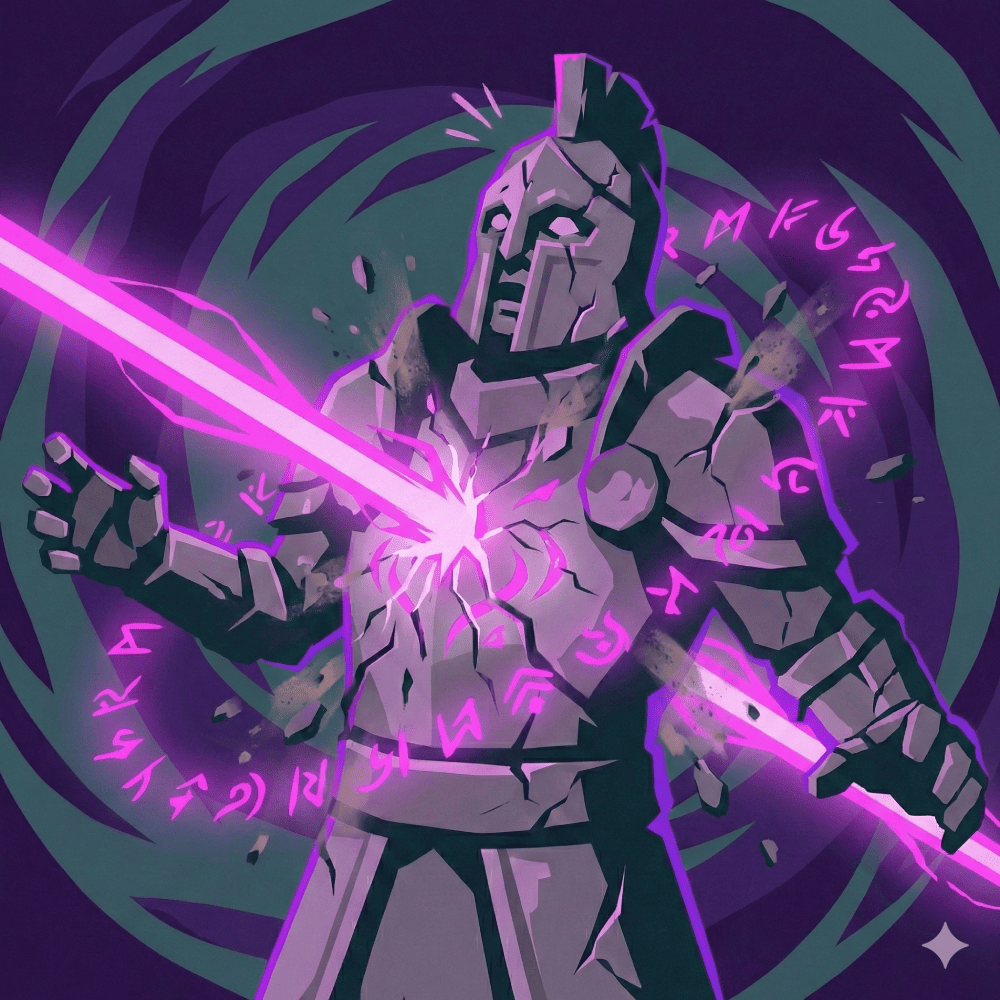
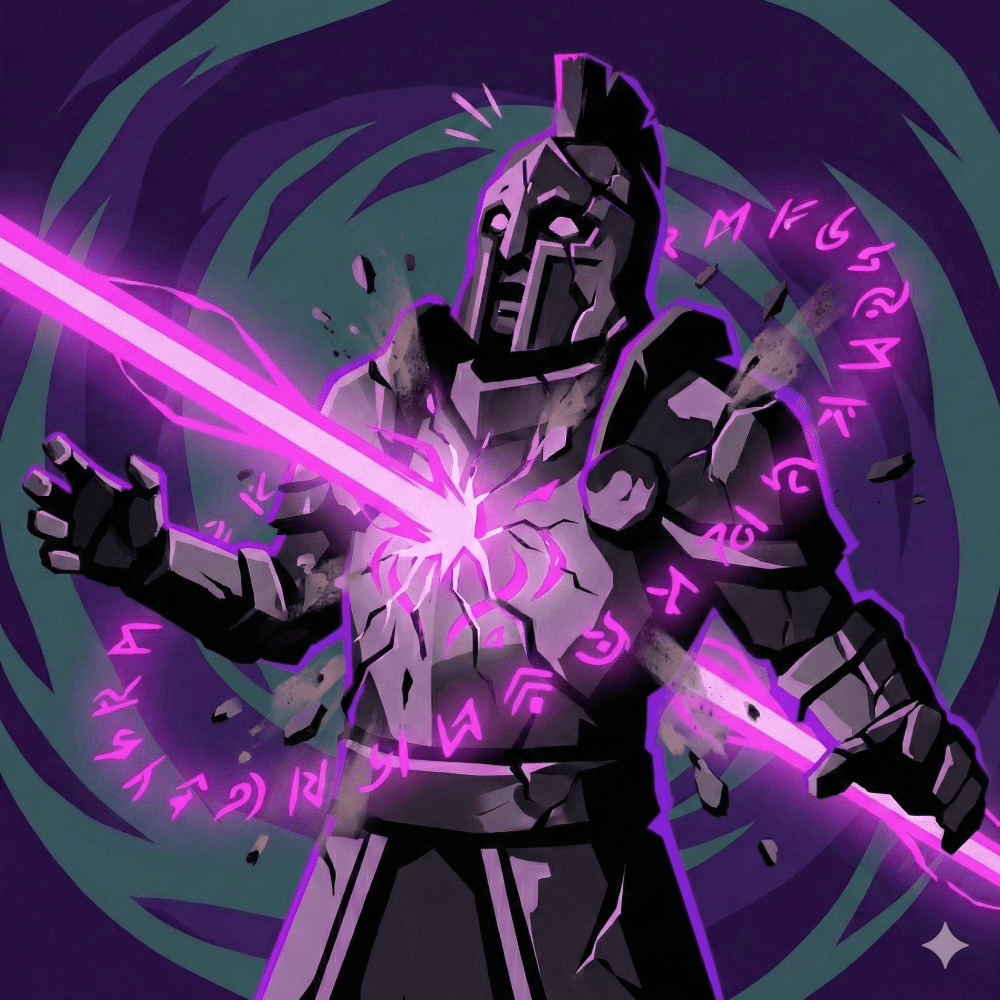
mad prophet full arts

diff --git a/src/data/index.ts b/src/data/index.ts
@@ -4,9 +4,13 @@ import cleaveCardImage from '../assets/images/heroes/crusader/cards/cleave-card.
 import bloodOathCardImage from '../assets/images/heroes/crusader/cards/bloodoath-card.png';
 import purgeCardImage from '../assets/images/heroes/crusader/cards/purge-card.png';
 import arrowShotCardImage from '../assets/images/heroes/loneranger/cards/arrowshot-card.png';
-import eyeFromAboveCardImage from '../assets/images/heroes/loneranger/cards/eyefromabove-card.png';
+import quetzalSightCardImage from '../assets/images/heroes/loneranger/cards/quetzalsight-card.png';
 import pietrifyingCurseCardImage from '../assets/images/heroes/loneranger/cards/pietrifyingcurse-card.png';
 import huntersMarkIcon from '../assets/images/heroes/loneranger/skills/huntersmark-skill.png';
+import foreseeCardImage from '../assets/images/heroes/madprophet/cards/foresee-card.png';
+import omenCardImage from '../assets/images/heroes/madprophet/cards/omen-card.png';
+import epiphanyCardImage from '../assets/images/heroes/madprophet/cards/epiphany-card.png';
+import theProphecyIcon from '../assets/images/heroes/madprophet/skills/thepropecy-skill.png';
 
 export const ZONES = ['F', 'M', 'R'];
 
@@ -27,7 +31,7 @@ export const KEYWORDS: Record<string, string> = {
   'Prevent': 'Reduces incoming damage by a flat amount.',
   'Stalwart': 'Gain 1 Gray Heart each round.',
   'Camouflage': 'Immune this turn.',
-  'Map Vision': 'See adjacent nodes.',
+  'The Prophecy': 'Reveal the next nodes type on world map.',
   'Scry All': 'Reveal all enemy cards.',
   'Range': 'Can target enemies X lanes away.',
   'Ranged': 'Can target enemies X lanes away.',
@@ -36,9 +40,10 @@ export const KEYWORDS: Record<string, string> = {
 };
 
 export const POTIONS_DB: Card[] = [
-  { id: 'pot_heal', type: 'BASIC', value: 3, name: 'Healing Potion', desc: 'Heal 3 HP', isPotion: true, color: 'bg-emerald-950', border: 'border-emerald-700' },
-  { id: 'pot_inv', type: 'BASIC', value: 0, name: 'Invis. Potion', desc: 'Immune 1 round', isPotion: true, color: 'bg-indigo-950', border: 'border-indigo-700' },
-  { id: 'pot_str', type: 'BASIC', value: 2, name: 'Str. Potion', desc: '+2 DMG next', isPotion: true, color: 'bg-amber-950', border: 'border-amber-700' }
+  { id: 'pot_heal', type: 'CRAFTED', actionType: 'SKILL', value: 2, name: 'Healing Potion', desc: 'Heal 2 hearts.', isPotion: true, speed: 'FAST', range: 1, color: 'bg-emerald-950', border: 'border-emerald-700' },
+  { id: 'pot_inv', type: 'CRAFTED', actionType: 'SKILL', value: 0, name: 'Invisible Potion', desc: 'Immune this turn.', isPotion: true, speed: 'FAST', range: 1, color: 'bg-indigo-950', border: 'border-indigo-700' },
+  { id: 'pot_aug', type: 'CRAFTED', actionType: 'SKILL', value: 2, name: 'Augmented Potion', desc: 'Gain Anger 2.', isPotion: true, speed: 'FAST', range: 1, color: 'bg-amber-950', border: 'border-amber-700' },
+  { id: 'pot_exp', type: 'CRAFTED', actionType: 'ATTACK', value: 2, name: 'Explosive Potion', desc: 'Deal 2 to this lane and adjacent lanes.', isPotion: true, speed: 'FAST', range: 2, effect: 'CLEAVE', color: 'bg-red-950', border: 'border-red-700' }
 ];
 
 export const HEROES_DB: Hero[] = [
@@ -76,7 +81,7 @@ export const HEROES_DB: Hero[] = [
     lore: 'Outcast in the wilds, seeking to restore nature balance to the land',
     cards: [
       { id: 'r_arrow_shot', type: 'BASIC', actionType: 'ATTACK', value: 2, name: 'Arrow Shot', desc: 'Deal 2.', range: 2, ownerId: 'ranger', speed: 'NORMAL', image: arrowShotCardImage },
-      { id: 'r_eye_above', type: 'SIGNATURE', actionType: 'SKILL', value: 0, name: 'Eye from above', desc: 'Reveal this lane.', range: 1, effect: 'SCRY_LANE', ownerId: 'ranger', speed: 'FAST', image: eyeFromAboveCardImage },
+      { id: 'r_eye_above', type: 'SIGNATURE', actionType: 'SKILL', value: 0, name: 'Quetzal Sight', desc: 'Reveal this lane.', range: 1, effect: 'SCRY_LANE', ownerId: 'ranger', speed: 'FAST', image: quetzalSightCardImage },
       { id: 'r_pietrifying_curse', type: 'ULTIMATE', actionType: 'SKILL', value: 2, name: 'Pietrifying Curse', desc: 'Detain 2', range: 2, effect: 'DETAIN', ownerId: 'ranger', speed: 'NORMAL', image: pietrifyingCurseCardImage }
     ]
   },
@@ -84,7 +89,9 @@ export const HEROES_DB: Hero[] = [
     id: 'prophet',
     name: 'Mad Prophet',
     role: 'SUPP',
-    desc: 'Passive: Map Vision. Active: Scry All (Cooldown 2)',
+    desc: 'Passive: The Prophecy.',
+    passiveName: 'The Prophecy',
+    passiveIcon: theProphecyIcon,
     hp: 3,
     maxHp: 3,
     archetype: 'KINGDOM' as const,
@@ -92,16 +99,17 @@ export const HEROES_DB: Hero[] = [
     locked: false,
     lore: "Once king's high priest, it bears a prophecy of restoration",
     cards: [
-      { id: 'p_foresee', type: 'BASIC', actionType: 'SKILL', value: 1, name: 'Foresee', desc: 'Detain 1. Play on Revealed only.', range: 1, effect: 'DETAIN', ownerId: 'prophet', speed: 'NORMAL' },
-      { id: 'p_omen', type: 'SIGNATURE', actionType: 'SKILL', value: 2, name: 'Omen', desc: 'Vulnerable 2.', range: 1, effect: 'VULNERABLE', ownerId: 'prophet', speed: 'NORMAL' },
-      { id: 'p_epiphany', type: 'ULTIMATE', actionType: 'SKILL', value: 0, name: 'Epiphany', desc: 'Reveal all lanes.', effect: 'SCRY_ALL', ownerId: 'prophet', speed: 'FAST' }
+      { id: 'p_foresee', type: 'BASIC', actionType: 'SKILL', value: 1, name: 'Foresee', desc: 'Detain 1. Play on Revealed only.', range: 1, effect: 'DETAIN', ownerId: 'prophet', speed: 'NORMAL', image: foreseeCardImage },
+      { id: 'p_omen', type: 'SIGNATURE', actionType: 'SKILL', value: 2, name: 'Omen', desc: 'Apply Vulnerable 2', range: 1, effect: 'VULNERABLE', ownerId: 'prophet', speed: 'FAST', image: omenCardImage },
+      { id: 'p_epiphany', type: 'ULTIMATE', actionType: 'SKILL', value: 0, name: 'Epiphany', desc: 'Reveal all lanes.', effect: 'SCRY_ALL', ownerId: 'prophet', speed: 'FAST', image: epiphanyCardImage }
     ]
   },
   {
     id: 'alchemist',
     name: 'Alchemist',
     role: 'WILD',
-    desc: 'Passive: Craft potion on Draw.',
+    desc: 'Passive: Before Draw Phase, Craft 1 random potion.',
+    passiveName: 'Skilled Brewery',
     hp: 4,
     maxHp: 4,
     archetype: 'POWER' as const,

diff --git a/src/screens/HeroDetailScreen.tsx b/src/screens/HeroDetailScreen.tsx
@@ -308,16 +308,12 @@ export const HeroDetailScreen = ({ hero, onClose }: HeroDetailScreenProps) => {
                         <p className="text-stone-300 text-sm leading-relaxed text-center px-2 mb-4">
                             {(() => {
                                 if (!hero.desc) return null;
-                                // Simple text replacement for specific keyword styling if strictly needed,
-                                // but for now keeping the generic highlighter logic but prioritizing longer matches.
-                                // However, user specifically asked to ONLY highlight Revealed, not Reveal.
-                                // We can filter the keywords we use for this hero desc check.
+                                // Use sorted keys to correctly handle overlapping keywords (e.g. "Revealed" vs "Reveal")
+                                const sortedKeys = Object.keys(KEYWORDS).sort((a, b) => b.length - a.length);
+                                const parts = hero.desc.split(new RegExp(`(${sortedKeys.join('|')})`, 'g'));
                                 
-                                const specificKeywords = ['Revealed']; // Add others here if needed for other heroes
-                                
-                                const parts = hero.desc.split(new RegExp(`(${specificKeywords.join('|')})`, 'g'));
                                 return parts.map((part, i) => {
-                                    if (specificKeywords.includes(part)) {
+                                    if (KEYWORDS[part]) {
                                         return <span key={i} className="text-amber-400 font-bold drop-shadow-sm">{part}</span>;
                                     }
                                     return <span key={i}>{part}</span>;
@@ -326,12 +322,11 @@ export const HeroDetailScreen = ({ hero, onClose }: HeroDetailScreenProps) => {
                         </p>
 
                         {(() => {
-                            // Filter valid keywords: Only show tooltip for 'Revealed' if present, ignore 'Reveal' substring issues
-                            const foundKeywords = Object.keys(KEYWORDS).filter(k => {
-                                // Specific override for Ranger Passive context
-                                if (k === 'Reveal') return false; 
-                                return hero.desc.includes(k);
-                            });
+                            // Extract keywords ensuring we match the longest ones first (same logic as Cards)
+                            const sortedKeys = Object.keys(KEYWORDS).sort((a, b) => b.length - a.length);
+                            const regex = new RegExp(`(${sortedKeys.join('|')})`, 'g');
+                            const matches = hero.desc.match(regex) || [];
+                            const foundKeywords = Array.from(new Set(matches));
                             
                             if (foundKeywords.length === 0) return null;
                             return (

diff --git a/src/hooks/useGameLoop.ts b/src/hooks/useGameLoop.ts
@@ -105,8 +105,7 @@ export function useGameLoop({
           const laneIdx = partyLanes[hero.id] !== undefined ? partyLanes[hero.id] : party.indexOf(hero);
           // Initialize cooldown based on hero
           let cooldownMax = 0;
-          if (hero.id === 'prophet') cooldownMax = 2;
-          else if (hero.id === 'ranger') cooldownMax = 2;
+          if (hero.id === 'ranger') cooldownMax = 2;
           else if (hero.id === 'crusader') cooldownMax = 0;
           
           combatParty[laneIdx] = { 
@@ -396,27 +395,6 @@ export function useGameLoop({
         addLog(`Crusader provokes ${enemyUnit.name} into attacking with ${attackCard.value} damage!`);
     };
 
-    const onProphetAction = () => {
-         if (!combatState || combatState.scryActive) return;
-         
-         const prophetUnit = combatState.playerUnits.find(u => u && u.id === 'prophet');
-         if (!prophetUnit || prophetUnit.activeCooldown! > 0) return;
-         
-         const newPlayerUnits = combatState.playerUnits.map(u => {
-           if (u && u.id === 'prophet') {
-             return { ...u, activeCooldown: u.activeCooldownMax || 0 };
-           }
-           return u;
-         });
-         
-         setCombatState(prev => ({ 
-           ...prev!, 
-           scryActive: true,
-           playerUnits: newPlayerUnits,
-           enemyZoneCards: prev!.enemyZoneCards.map(c => c ? { ...c, revealed: true } : null)
-         }));
-         addLog("Prophet reveals all enemy intentions!");
-    };
     
     const onCrusaderAction = () => {
          if (!combatState || combatState.phase !== 'planning') return;
@@ -461,7 +439,6 @@ export function useGameLoop({
         handleZoneClick,
         handleEndTurn,
         handleProvokeClick,
-        onProphetAction,
         onCrusaderAction,
         onRangerAction
     };

diff --git a/src/components/UnitPortrait.tsx b/src/components/UnitPortrait.tsx
@@ -5,12 +5,11 @@ import { StatBadge } from './StatBadge';
 interface UnitPortraitProps {
   unit: Unit | null;
   isEnemy: boolean;
-  onProphetAction?: () => void;
   onCrusaderAction?: () => void;
   onRangerAction?: () => void;
 }
 
-export const UnitPortrait = ({ unit, isEnemy, onProphetAction, onCrusaderAction, onRangerAction }: UnitPortraitProps) => {
+export const UnitPortrait = ({ unit, isEnemy, onCrusaderAction, onRangerAction }: UnitPortraitProps) => {
   // Empty State - Same style for both
   if (!unit) {
     return (
@@ -92,25 +91,6 @@ export const UnitPortrait = ({ unit, isEnemy, onProphetAction, onCrusaderAction,
         </div>
       )}
 
-      {/* Action Button (Prophet) */}
-      {!isEnemy && !isDead && unit.id === 'prophet' && (
-         <button 
-           onClick={(e) => { e.stopPropagation(); if(onProphetAction) onProphetAction(); }} 
-           disabled={unit.activeCooldown! > 0}
-           className={`absolute bottom-12 right-1 p-1 rounded-full border shadow-lg z-20 transition-all ${
-             unit.activeCooldown! > 0 
-               ? 'bg-stone-700 border-stone-600 shadow-stone-900/50 cursor-not-allowed opacity-50' 
-               : 'bg-violet-900 border-violet-500 shadow-violet-900/50 hover:scale-110'
-           }`}
-         >
-            {unit.activeCooldown! > 0 ? (
-              <span className="text-[8px] font-bold text-stone-400">{unit.activeCooldown}</span>
-            ) : (
-              <Eye size={10} className="text-violet-200" />
-            )}
-         </button>
-      )}
-      
       {/* Action Button (Crusader - Provoke) */}
       {!isEnemy && !isDead && unit.id === 'crusader' && (
          <button 

diff --git a/src/screens/CombatScreen.tsx b/src/screens/CombatScreen.tsx
@@ -24,7 +24,6 @@ interface CombatScreenProps {
   handleProvokeClick: (laneIdx: number) => void;
   previewCard: CardData | null;
   setPreviewCard: (card: CardData | null) => void;
-  onProphetAction?: () => void;
   onCrusaderAction?: () => void;
   onRangerAction?: () => void;
   setCombatState: React.Dispatch<React.SetStateAction<CombatState | null>>;
@@ -48,7 +47,6 @@ export const CombatScreen: React.FC<CombatScreenProps> = ({
   handleProvokeClick,
   previewCard,
   setPreviewCard,
-  onProphetAction,
   onCrusaderAction,
   onRangerAction,
   setCombatState
@@ -237,7 +235,6 @@ export const CombatScreen: React.FC<CombatScreenProps> = ({
                        isValidTarget={isValidTarget}
                        onPreviewStart={setPreviewCard}
                        onPreviewEnd={() => setPreviewCard(null)}
-                       onProphetAction={onProphetAction}
                        onCrusaderAction={onCrusaderAction}
                        onRangerAction={onRangerAction}
                        showTargetArrow={calculatedTargetLane === laneIdx && hoveredLane !== null}

diff --git a/src/App.tsx b/src/App.tsx
@@ -48,7 +48,7 @@ export default function TheDragonMustDie() {
   // Custom Hook: Game Loop
   const {
       provokeMode, setProvokeMode, enterCombat, handleZoneClick, handleEndTurn,
-      handleProvokeClick, onProphetAction, onCrusaderAction, onRangerAction
+      handleProvokeClick, onCrusaderAction, onRangerAction
   } = useGameLoop({
       combatState, setCombatState, party, partyLanes, globalDeck, setGlobalDeck,
       mapNode, setMapNode, addLog, setLogs, setView, setParty
@@ -179,7 +179,6 @@ export default function TheDragonMustDie() {
         handleProvokeClick={handleProvokeClick}
         previewCard={previewCard}
         setPreviewCard={setPreviewCard}
-        onProphetAction={onProphetAction}
         onCrusaderAction={onCrusaderAction}
         onRangerAction={onRangerAction}
         setCombatState={setCombatState}

diff --git a/src/components/Card.tsx b/src/components/Card.tsx
@@ -95,11 +95,12 @@ export const Card = ({ type, ownerId, name, desc, isHidden, onPreviewStart, onPr
 
   const renderDescription = () => {
     if (!desc) return null;
-    const parts = desc.split(new RegExp(`(${Object.keys(KEYWORDS).join('|')})`, 'g'));
+    const sortedKeys = Object.keys(KEYWORDS).sort((a, b) => b.length - a.length);
+    const parts = desc.split(new RegExp(`(${sortedKeys.join('|')})`, 'g'));
     return (
         <>
             {parts.map((part, i) => {
-                const match = Object.keys(KEYWORDS).find(k => k === part);
+                const match = KEYWORDS[part];
                 if (match && (previewMode || !smallMode)) {
                      return <span key={i} className="text-amber-400 font-bold drop-shadow-sm">{part}</span>;
                 }

diff --git a/src/components/BattleLane.tsx b/src/components/BattleLane.tsx
@@ -15,7 +15,6 @@ interface BattleLaneProps {
   isValidTarget: boolean;
   onPreviewStart: (card: CardData) => void;
   onPreviewEnd: () => void;
-  onProphetAction?: () => void;
   onCrusaderAction?: () => void;
   onRangerAction?: () => void;
   showTargetArrow?: boolean;
@@ -37,7 +36,6 @@ export const BattleLane = ({
   isValidTarget, 
   onPreviewStart, 
   onPreviewEnd, 
-  onProphetAction, 
   onCrusaderAction, 
   onRangerAction, 
   showTargetArrow, 
@@ -164,7 +162,6 @@ export const BattleLane = ({
          <UnitPortrait 
            unit={playerUnit} 
            isEnemy={false} 
-           onProphetAction={onProphetAction} 
            onCrusaderAction={onCrusaderAction}
            onRangerAction={onRangerAction}
          />

diff --git a/src/components/CardPreviewModal.tsx b/src/components/CardPreviewModal.tsx
@@ -11,7 +11,10 @@ interface CardPreviewModalProps {
 }
 
 export const CardPreviewModal: React.FC<CardPreviewModalProps> = ({ card, onClose, interactive = false }) => {
-  const foundKeywords = Object.keys(KEYWORDS).filter(k => card.desc.includes(k));
+  const sortedKeys = Object.keys(KEYWORDS).sort((a, b) => b.length - a.length);
+  const regex = new RegExp(`(${sortedKeys.join('|')})`, 'g');
+  const matches = card.desc.match(regex) || [];
+  const foundKeywords = Array.from(new Set(matches));
 
   return (
     <div 

diff --git a/src/types/index.ts b/src/types/index.ts
@@ -1,4 +1,4 @@
-export type CardType = 'BASIC' | 'SIGNATURE' | 'ULTIMATE';
+export type CardType = 'BASIC' | 'SIGNATURE' | 'ULTIMATE' | 'CRAFTED';
 
 export interface Card {
   id: string;
